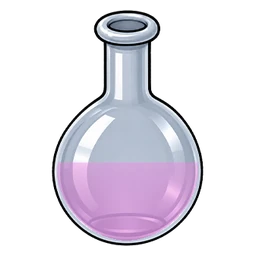
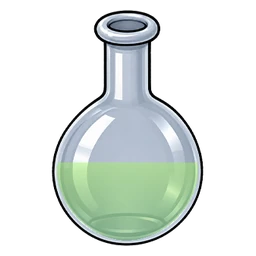
Колба Химика: яд зелёный
Claude-Session: https://claude.ai/code/session_01XtpZhZabEYUcJEQKQgYpHe

Changed region(s): [[0.2188, 0.625, 0.7812, 0.9688]]

diff --git a/src/content/items.ts b/src/content/items.ts
@@ -138,7 +138,7 @@ const WEARABLES: ItemDef[] = ([
   { id: "sneakers-solntse", name: "Кроссовки Солнца", slot: "SHOES", rarity: "legendary", description: "Подошва из живой лавы. После них на асфальте остаются следы.", sources: ["Победа: Солнце (Авторитетный)"] },
   { id: "apron-utilizator", name: "Фартук Утилизатора", slot: "SHIRT", rarity: "legendary", description: "Чёрная кожа, жёлтый знак и надпись «Утилизатор кислоты». Кислота прожгла пару дырок — но до тела не дошла.", sources: ["Победа: Утилизатор (Авторитетный)"] },
   { id: "mask-gas-utilizator", name: "Противогаз Утилизатора", slot: "FACE", rarity: "legendary", description: "Тот самый, что висит у него на фартуке. Фильтры жёлтые, взгляд сквозь стекло — тяжёлый. Кислотные пары не страшны.", sources: ["Победа: Утилизатор (Авторитетный)"] },
-  { id: "flask-himik", name: "Колба Химика", slot: "HAND", rarity: "legendary", description: "Круглая колба с розовой дрянью. Химик держит её за горлышко двумя пальцами — и ни разу не пролил. Герой покачивает её в руке, жидкость плещется.", sources: ["Победа: Химик (Блатной)"] },
+  { id: "flask-himik", name: "Колба Химика", slot: "HAND", rarity: "legendary", description: "Круглая колба с зелёным ядом. Химик держит её за горлышко двумя пальцами — и ни разу не пролил. Герой покачивает её в руке, жидкость плещется.", sources: ["Победа: Химик (Блатной)"] },
   { id: "vials-utilizator", name: "Колбы Утилизатора", slot: "HAND", rarity: "legendary", description: "Три колбы с кислотой на кольце. Утилизатор крутит их на пальце, пока решает, кого растворить. Герой крутит кольцо, колбы болтаются.", sources: ["Победа: Утилизатор (Авторитетный)"] },
   { id: "anchor-mugo", name: "Якорь", slot: "HAND", rarity: "epic", description: "Мугонатор качает его на верёвке и ждёт, когда Вадим скажет «бросай». Герой держит его в руке.", sources: ["Победа: Мугонатор (Блатной)"] },
   // Боцман's set: the gloves; the left hand plays with his crowbar (tools/rig/build-gloves.py)

diff --git a/src/client/art/rig.tsx b/src/client/art/rig.tsx
@@ -675,7 +675,7 @@ const FLASK_ID = "flask-himik";
 /**
  * «Колба Химика» (tools/rig/build-flask.py, the artist's layers and his video): the hand holds the round flask by its
  * neck between the fingers; the hand rocks a little at the wrist, the flask hangs from the grip and swings under it as a
- * pendulum (the hand's rocking keeps it going), and the pink liquid inside keeps level, lagging behind the swings and
+ * pendulum (the hand's rocking keeps it going), and the green poison inside keeps level, lagging behind the swings and
  * sloshing (its surface tilts against the flask and ripples), small bubbles rise through it. The glass is drawn twice:
  * solid under the liquid, see-through over it.
  */
@@ -751,9 +751,9 @@ function FlaskHand() {
           <image href={src("inside")} x={ins.x} y={ins.y} width={ins.w} height={ins.h} preserveAspectRatio="none" />
         </mask>
         <linearGradient id={`fl-liq-${uid}`} gradientUnits="userSpaceOnUse" x1={cx} y1={LV} x2={cx} y2={cy + r}>
-          <stop offset="0" stopColor="#ff5ce0" />
-          <stop offset="0.45" stopColor="#f01ec8" />
-          <stop offset="1" stopColor="#a8088f" />
+          <stop offset="0" stopColor="#9dff3a" />
+          <stop offset="0.45" stopColor="#46d10f" />
+          <stop offset="1" stopColor="#167a0a" />
         </linearGradient>
       </defs>
       {img("fingers-back", true)}
@@ -762,14 +762,14 @@ function FlaskHand() {
         <g mask={`url(#fl-in-${uid})`}>
           <g ref={liqRef}>
             <path ref={waveRef} d={`${wave(0, 0.6)} L${cx + r * 2} ${cy + r * 2.4} L${cx - r * 2} ${cy + r * 2.4} Z`} fill={`url(#fl-liq-${uid})`} />
-            <rect x={cx - r * 2} y={LV - 0.6} width={r * 4} height={1.6} fill="#ffd6f7" opacity={0.85} />
+            <rect x={cx - r * 2} y={LV - 0.6} width={r * 4} height={1.6} fill="#e2ffa8" opacity={0.85} />
             {[0, 1, 2, 3, 4].map((i) => (
-              <circle key={i} className="rig-flask-bub" cx={cx - r * 0.5 + i * r * 0.25} cy={cy + r * 0.75} r={0.9 + (i % 3) * 0.5} fill="rgba(255,230,250,0.85)"
+              <circle key={i} className="rig-flask-bub" cx={cx - r * 0.5 + i * r * 0.25} cy={cy + r * 0.75} r={0.9 + (i % 3) * 0.5} fill="rgba(230,255,200,0.85)"
                 style={{ animationDelay: `${(i * 0.53) % 2.2}s`, ["--rise" as string]: `${(cy + r * 0.75 - LV - 2).toFixed(1)}px` }} />
             ))}
           </g>
         </g>
-        {/* the see-through glass over the liquid: lighter still, so the pink shows bright as in the artist's video */}
+        {/* the see-through glass over the liquid: lighter still, so the poison shows bright */}
         <g opacity={0.28}>{img("glass-front")}</g>
       </g>
       {img("hand", true)}

diff --git a/tools/rig/build-flask.py b/tools/rig/build-flask.py
@@ -109,7 +109,7 @@ yy = np.mgrid[0:2800, 0:2000][0]
 lvl = bulb_c[1] - bulb_r * 0.1
 m = (inside > 0) & (yy > lvl)
 t = np.clip((yy - lvl) / (bottom - lvl), 0, 1)[..., None]
-col = (np.array([255, 120, 230]) * (1 - t) + np.array([200, 20, 170]) * t)
+col = (np.array([157, 255, 58]) * (1 - t) + np.array([22, 122, 10]) * t)
 liq[..., :3] = col.astype(np.uint8); liq[..., 3] = m * 235
 ic.alpha_composite(Image.fromarray(liq))
 ic.alpha_composite(Image.fromarray(L["glass-front"]))
